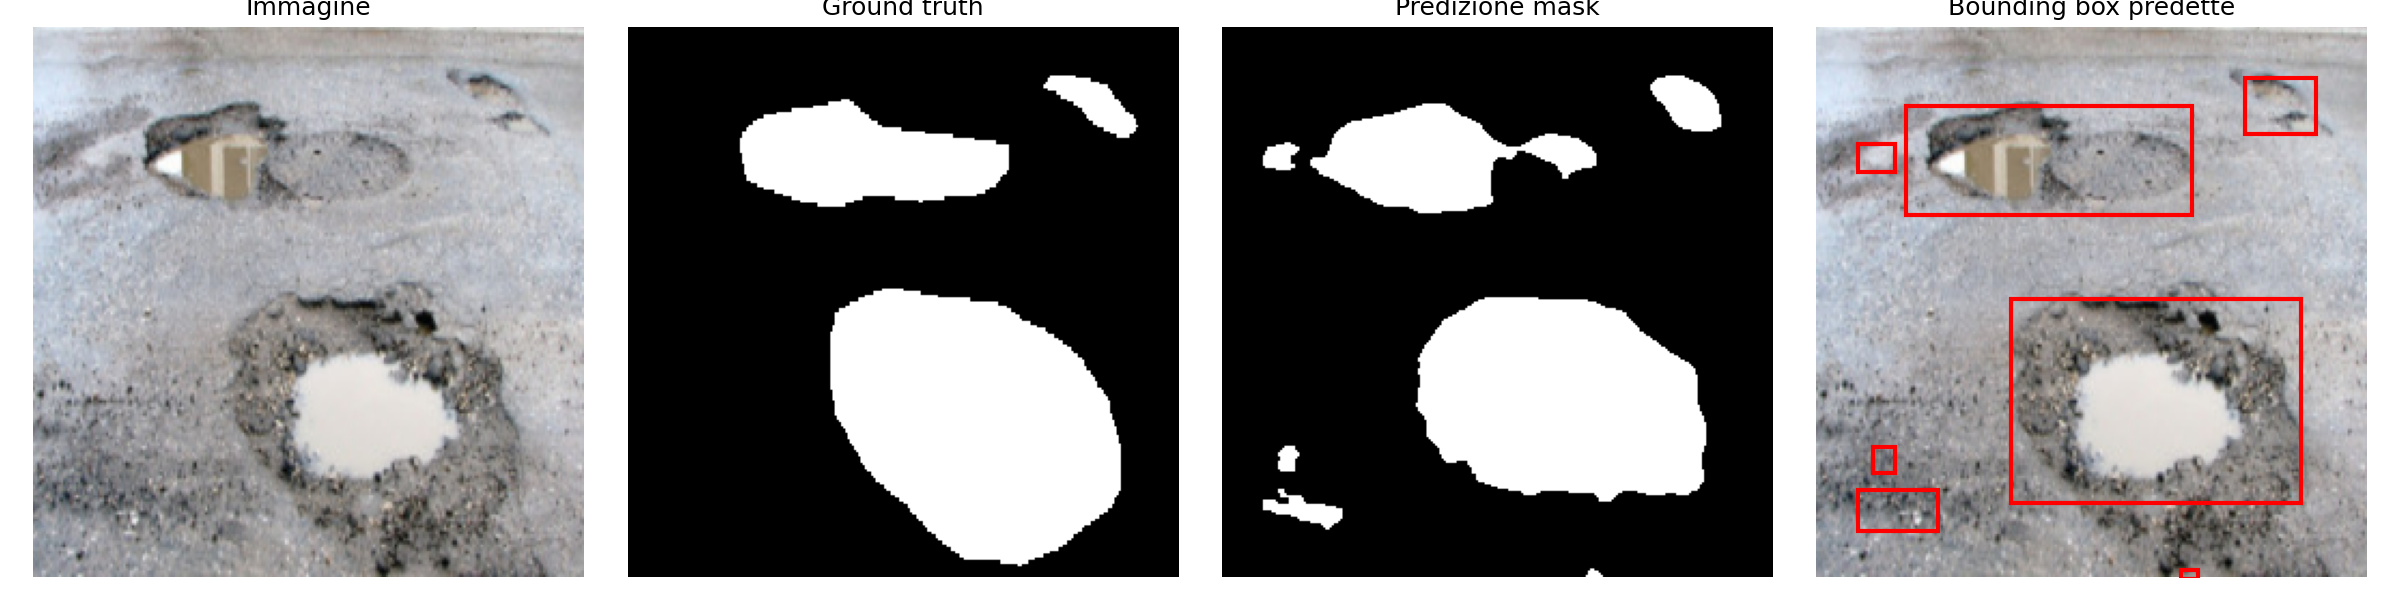
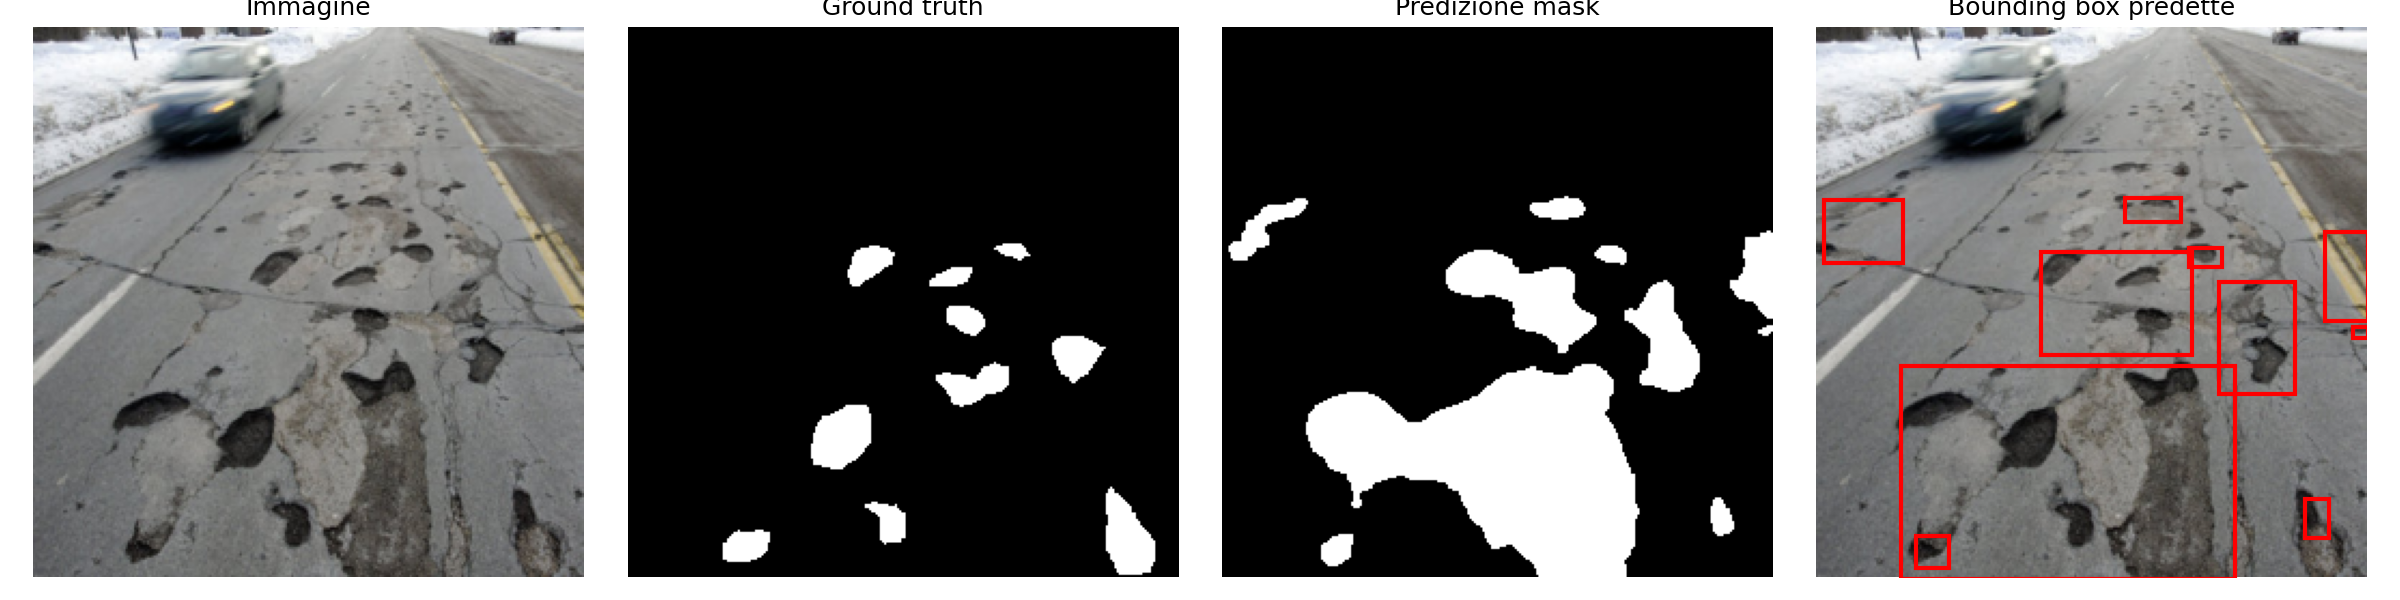
readme and docker file update

diff --git a/README.md b/README.md
@@ -293,17 +293,108 @@ Se il training esaurisce la memoria della GPU, prova a ridurre `BATCH_SIZE` o `Y
 | `artifacts/plots/` | Curve e confusion matrix |
 | `artifacts/predictions/` | Predizioni visuali |
 
+
 ## Docker
 
-La repository include un `Dockerfile` per containerizzare l'ambiente Python. Build:
+La repository include un `Dockerfile` per creare un'immagine Docker dell'ambiente Python.
+
+L'immagine non contiene dataset, modelli addestrati o artifact generati. Al primo utilizzo l'utente deve quindi scaricare il dataset, prepararlo e addestrare il modello tramite i comandi CLI.
+
+Build dell'immagine:
 
 ```bash
 docker build -t potholes-project .
 ```
 
-Avvio consigliato della dashboard:
+Per mantenere persistenti dataset, modelli e risultati tra un container e l'altro, monta le cartelle `data`, `saved_model` e `artifacts` come volumi.
+
+Download del dataset:
 
 ```bash
-docker run --rm -p 5000:5000 potholes-project python -m it.akron.cli api --host 0.0.0.0 --port 5000
+docker run --rm \
+  -v ${PWD}/data:/akron-potholes/data \
+  -v ${PWD}/saved_model:/akron-potholes/saved_model \
+  -v ${PWD}/artifacts:/akron-potholes/artifacts \
+  potholes-project python -m it.akron.cli download --api-key SUA_API_KEY
+```
+
+Preparazione del dataset:
+
+```bash
+docker run --rm \
+  -v ${PWD}/data:/akron-potholes/data \
+  -v ${PWD}/saved_model:/akron-potholes/saved_model \
+  -v ${PWD}/artifacts:/akron-potholes/artifacts \
+  potholes-project python -m it.akron.cli prepare
+```
+
+Training U-Net:
+
+```bash
+docker run --rm \
+  -v ${PWD}/data:/akron-potholes/data \
+  -v ${PWD}/saved_model:/akron-potholes/saved_model \
+  -v ${PWD}/artifacts:/akron-potholes/artifacts \
+  potholes-project python -m it.akron.cli train
+```
+
+Valutazione e predizioni:
+
+```bash
+docker run --rm \
+  -v ${PWD}/data:/akron-potholes/data \
+  -v ${PWD}/saved_model:/akron-potholes/saved_model \
+  -v ${PWD}/artifacts:/akron-potholes/artifacts \
+  potholes-project python -m it.akron.cli evaluate
+```
+
+```bash
+docker run --rm \
+  -v ${PWD}/data:/akron-potholes/data \
+  -v ${PWD}/saved_model:/akron-potholes/saved_model \
+  -v ${PWD}/artifacts:/akron-potholes/artifacts \
+  potholes-project python -m it.akron.cli predict
+```
+
+Pipeline YOLO:
+
+```bash
+docker run --rm \
+  -v ${PWD}/data:/akron-potholes/data \
+  -v ${PWD}/saved_model:/akron-potholes/saved_model \
+  -v ${PWD}/artifacts:/akron-potholes/artifacts \
+  potholes-project python -m it.akron.cli yolo_prepare
+```
+
+```bash
+docker run --rm \
+  -v ${PWD}/data:/akron-potholes/data \
+  -v ${PWD}/saved_model:/akron-potholes/saved_model \
+  -v ${PWD}/artifacts:/akron-potholes/artifacts \
+  potholes-project python -m it.akron.cli yolo_train
+```
+
+```bash
+docker run --rm \
+  -v ${PWD}/data:/akron-potholes/data \
+  -v ${PWD}/saved_model:/akron-potholes/saved_model \
+  -v ${PWD}/artifacts:/akron-potholes/artifacts \
+  potholes-project python -m it.akron.cli yolo_evaluate
+```
+
+Avvio della dashboard Flask:
+
+```bash
+docker run --rm -p 5000:5000 \
+  -v ${PWD}/data:/akron-potholes/data \
+  -v ${PWD}/saved_model:/akron-potholes/saved_model \
+  -v ${PWD}/artifacts:/akron-potholes/artifacts \
+  potholes-project python -m it.akron.cli api --host 0.0.0.0 --port 5000
+```
+
+Apri poi il browser su:
+
+```text
+http://127.0.0.1:5000
 ```
 